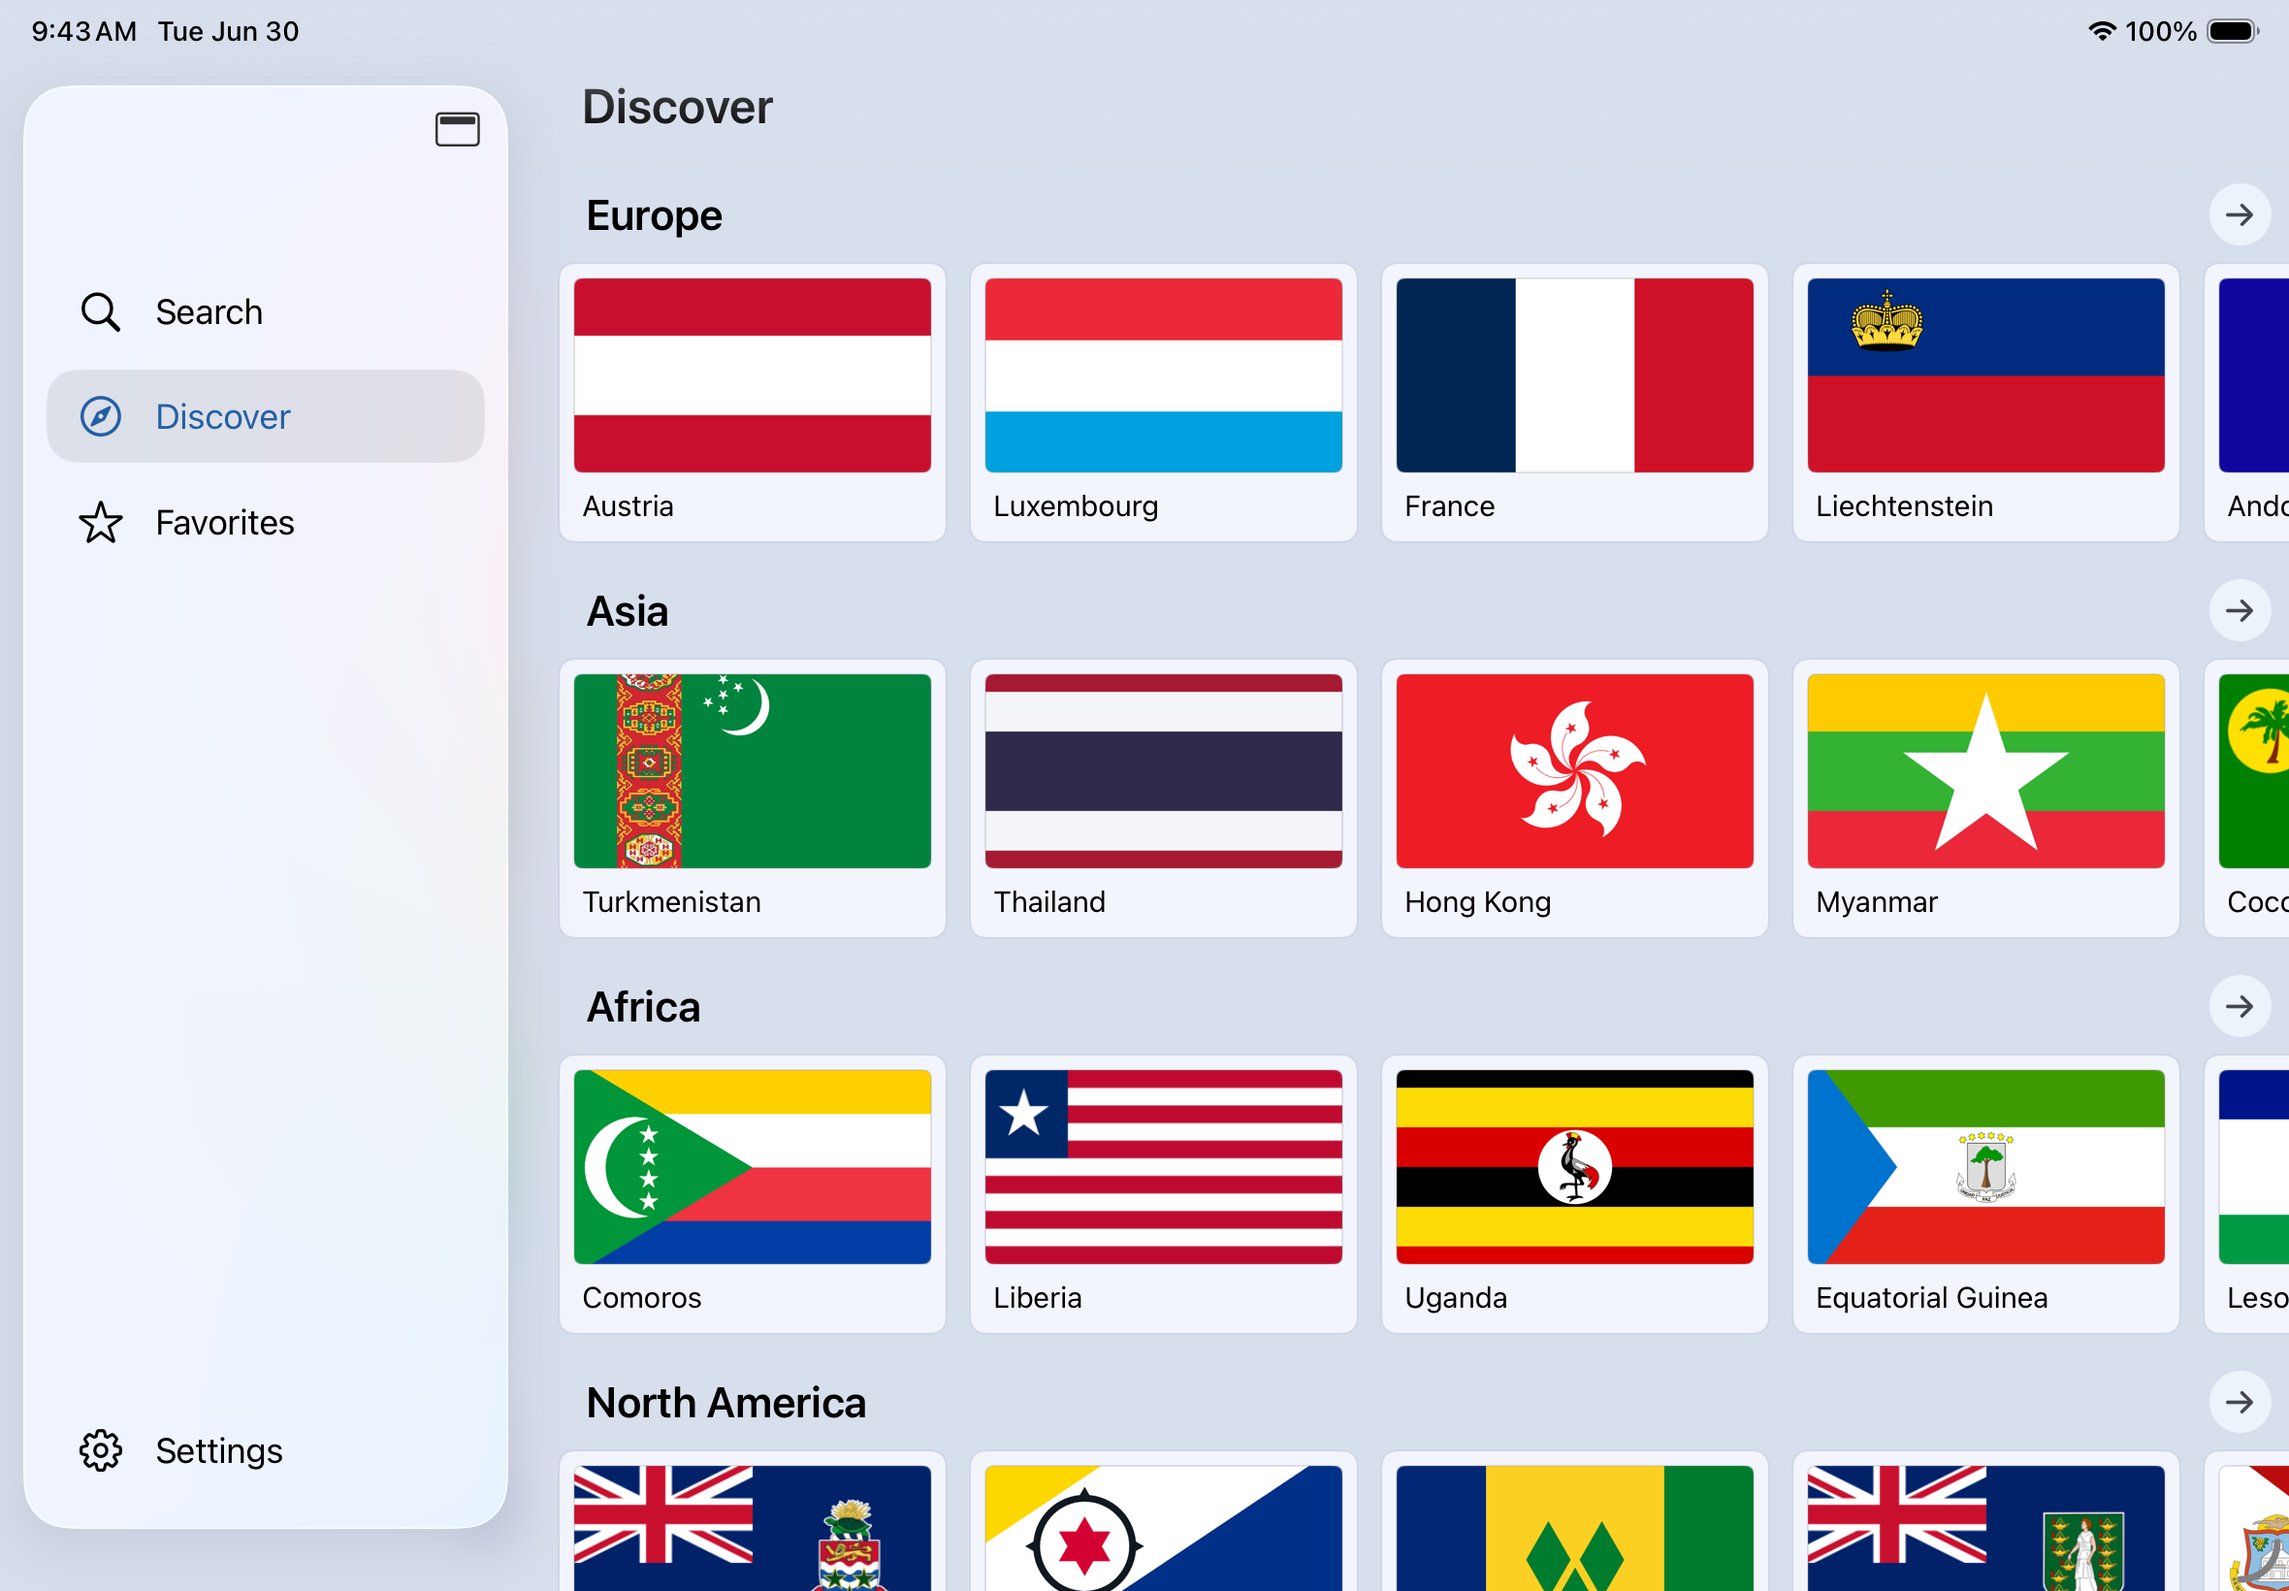
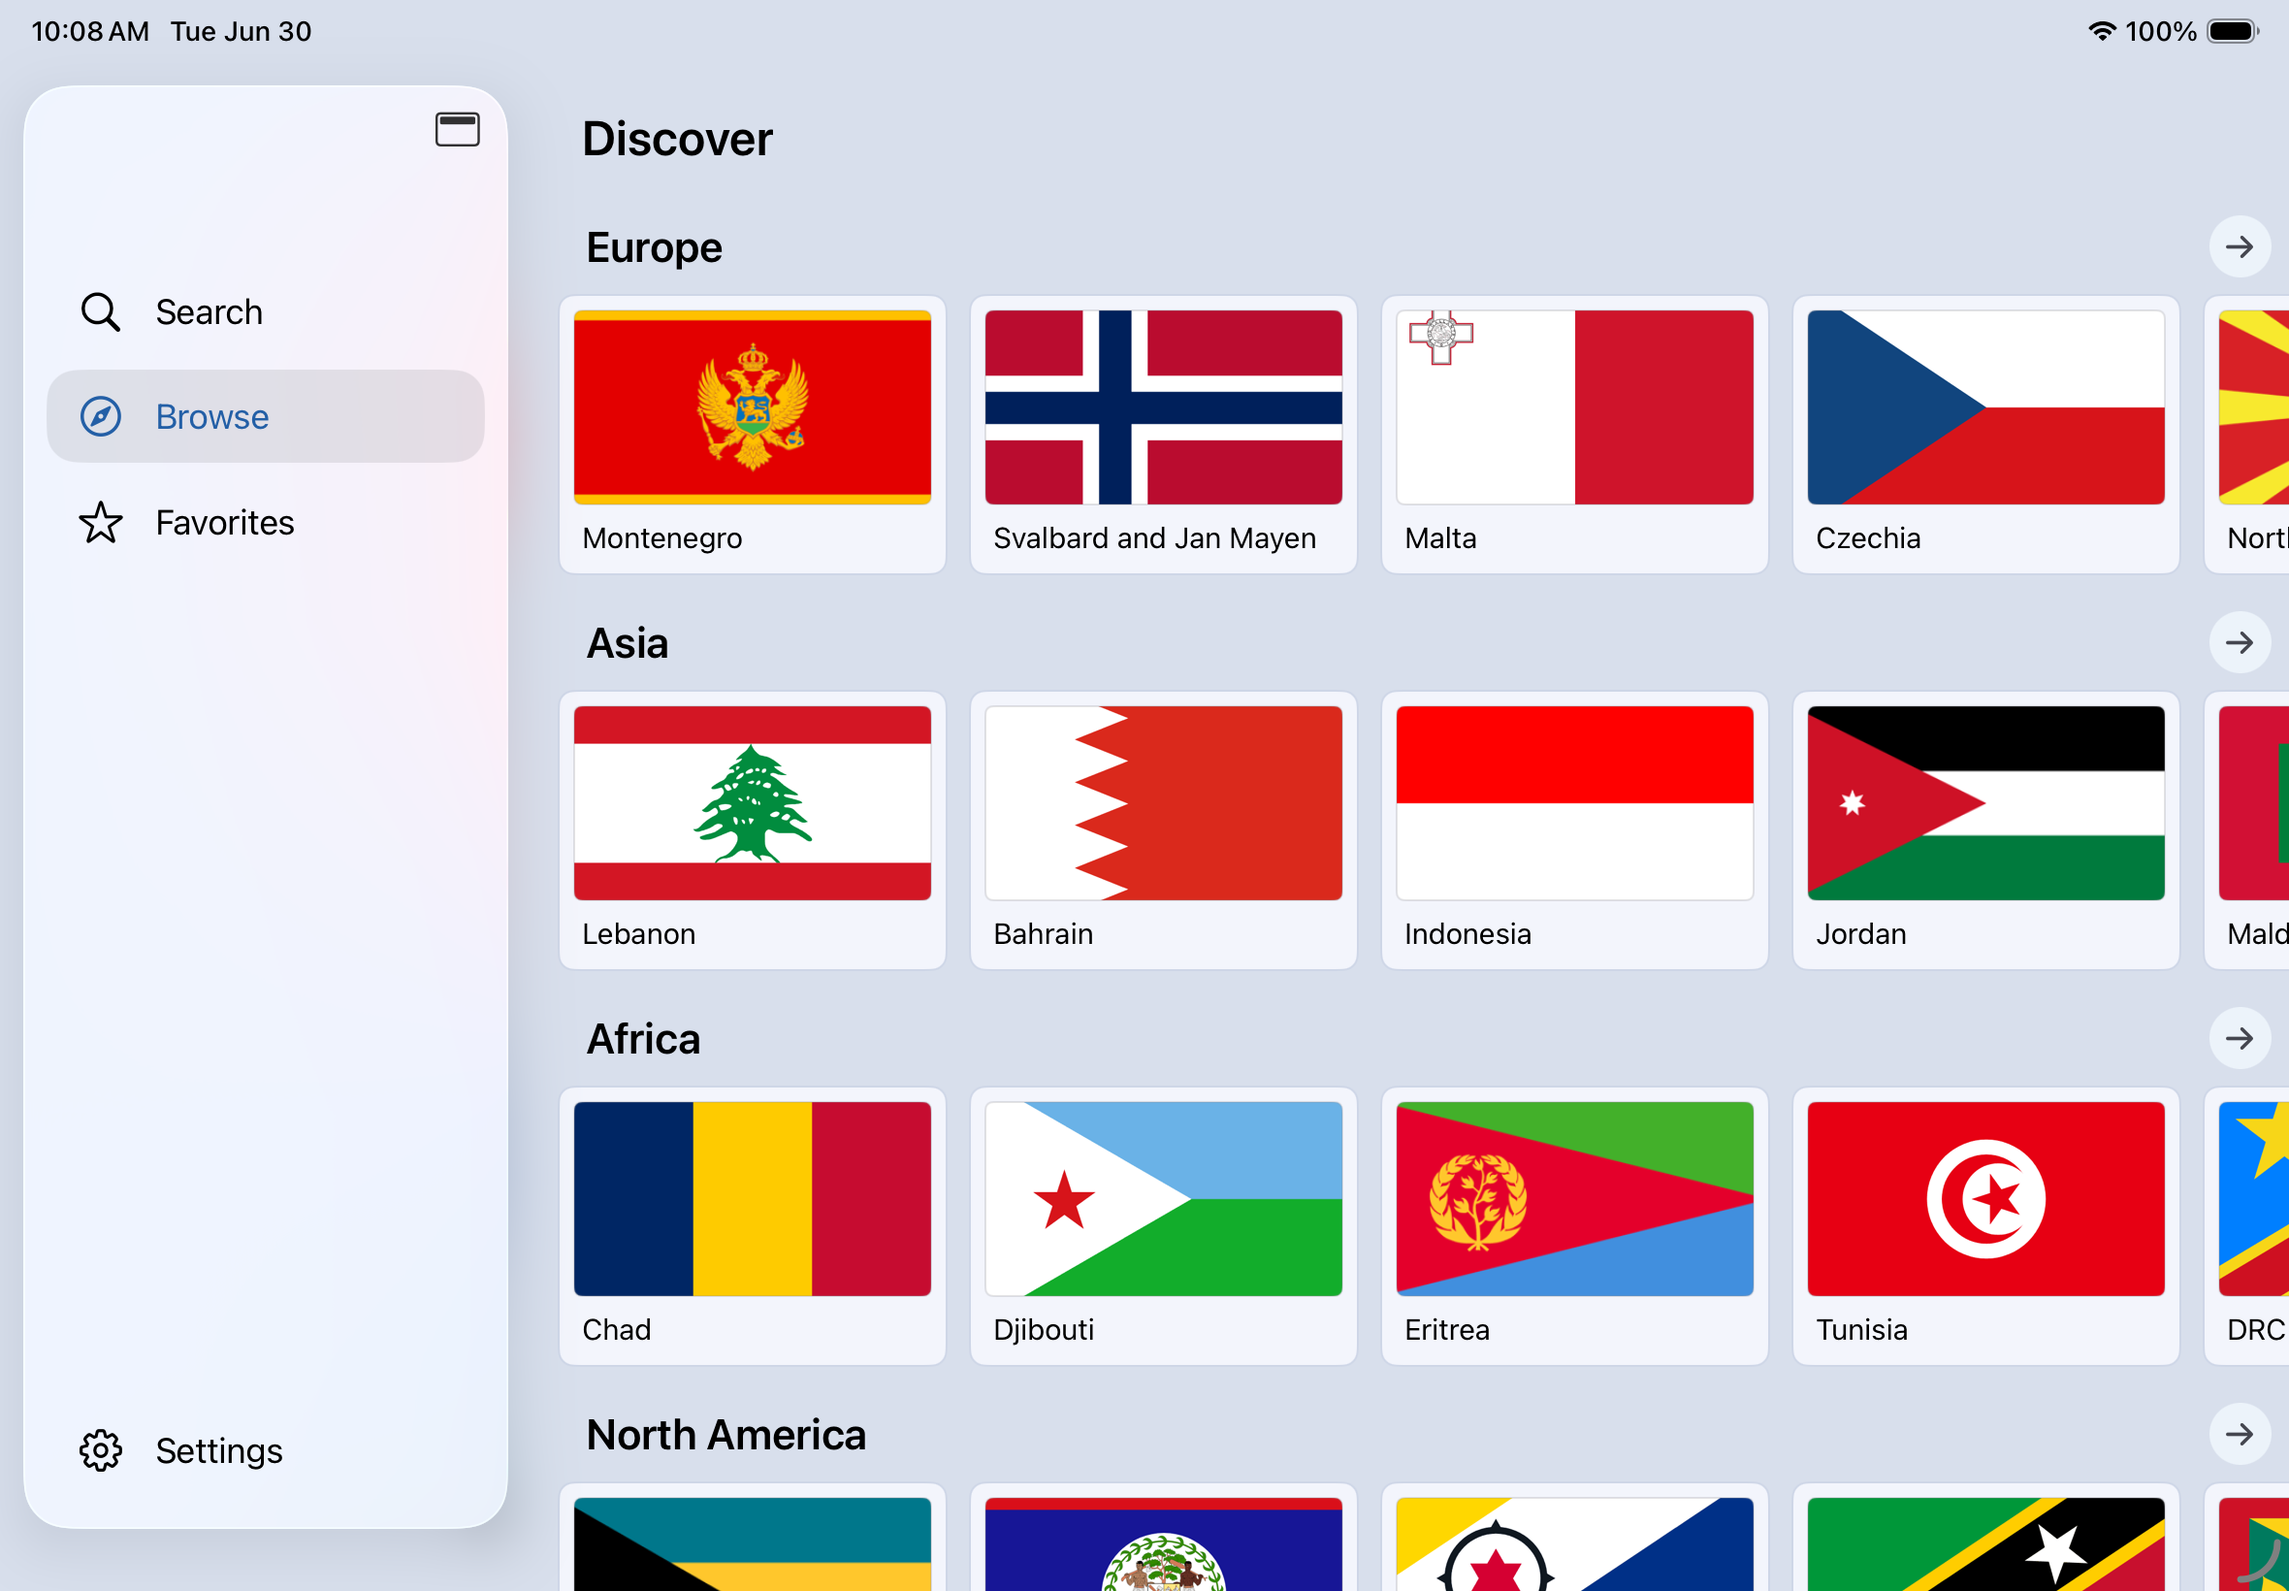
Update the side drawer and refresh the iOS tablet screenshot.

diff --git a/iosApp/iosApp/views/navigation/ui/SideDrawer.swift b/iosApp/iosApp/views/navigation/ui/SideDrawer.swift
@@ -38,7 +38,7 @@ struct SideDrawer: View {
             .padding(.bottom, 6)
             
             DrawerButton(
-                label: Strings.homeTitle,
+                label: Strings.navBrowse,
                 icon: "safari",
                 selectedIcon: "safari",
                 selected: currentURI == Level1Navigation.home.screenIdentifier.URI,
